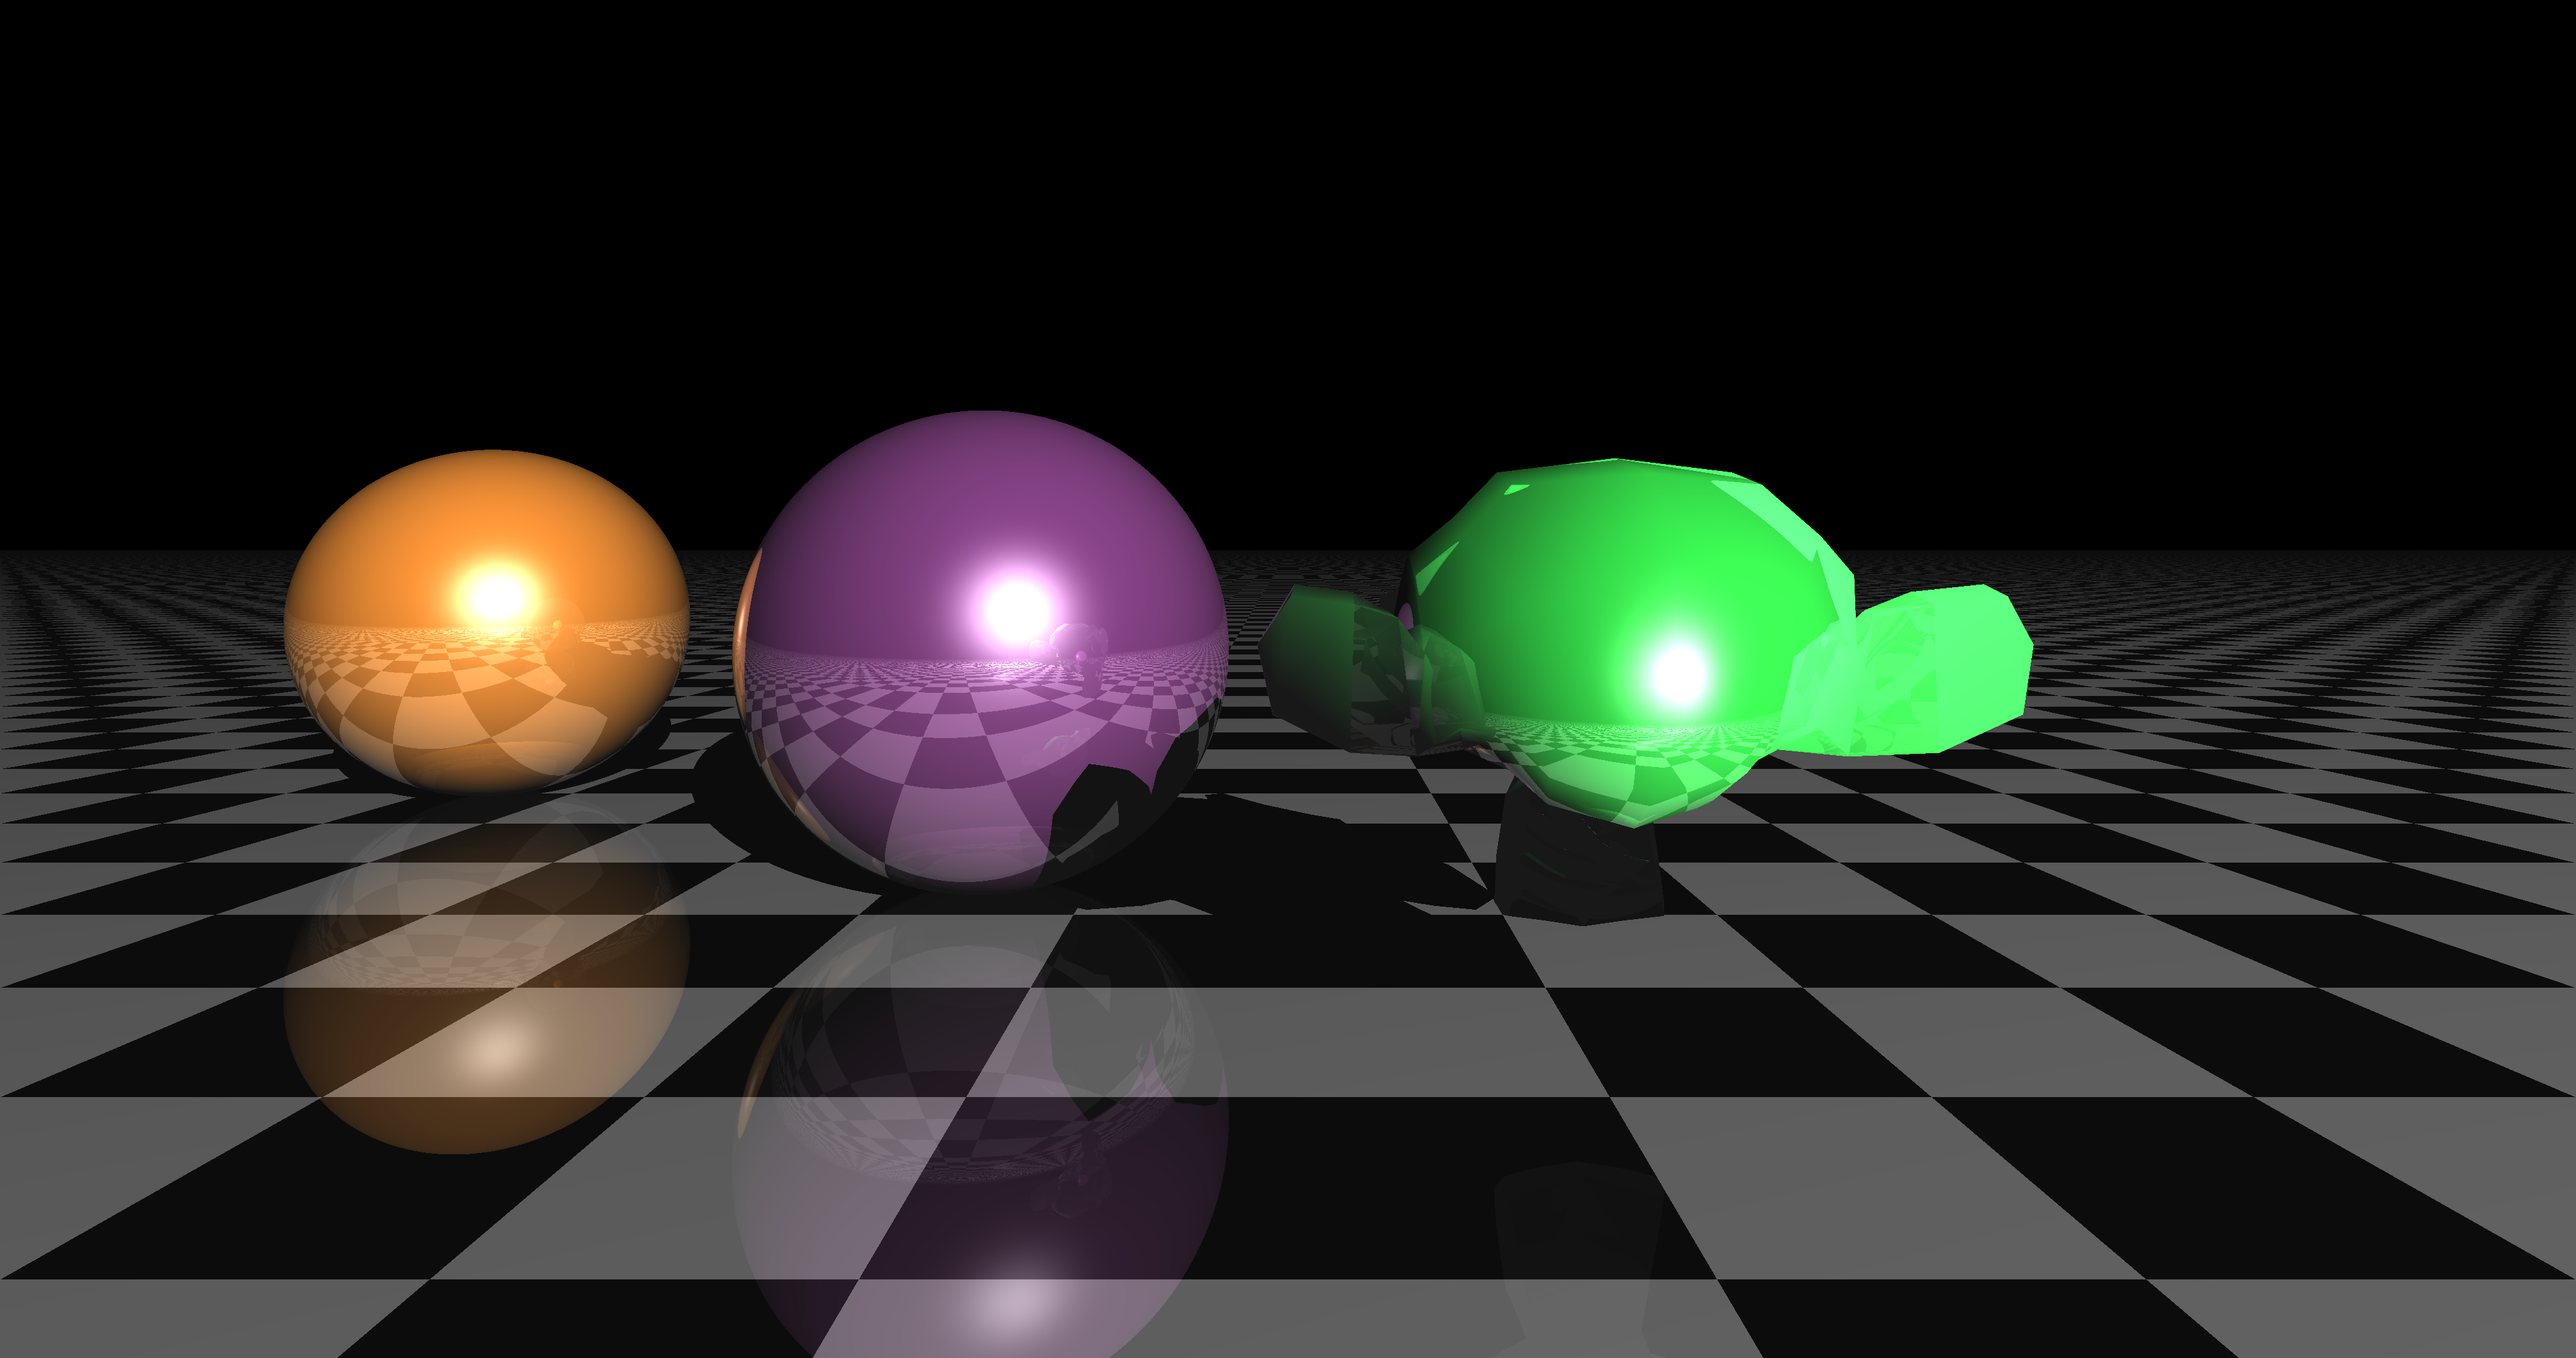
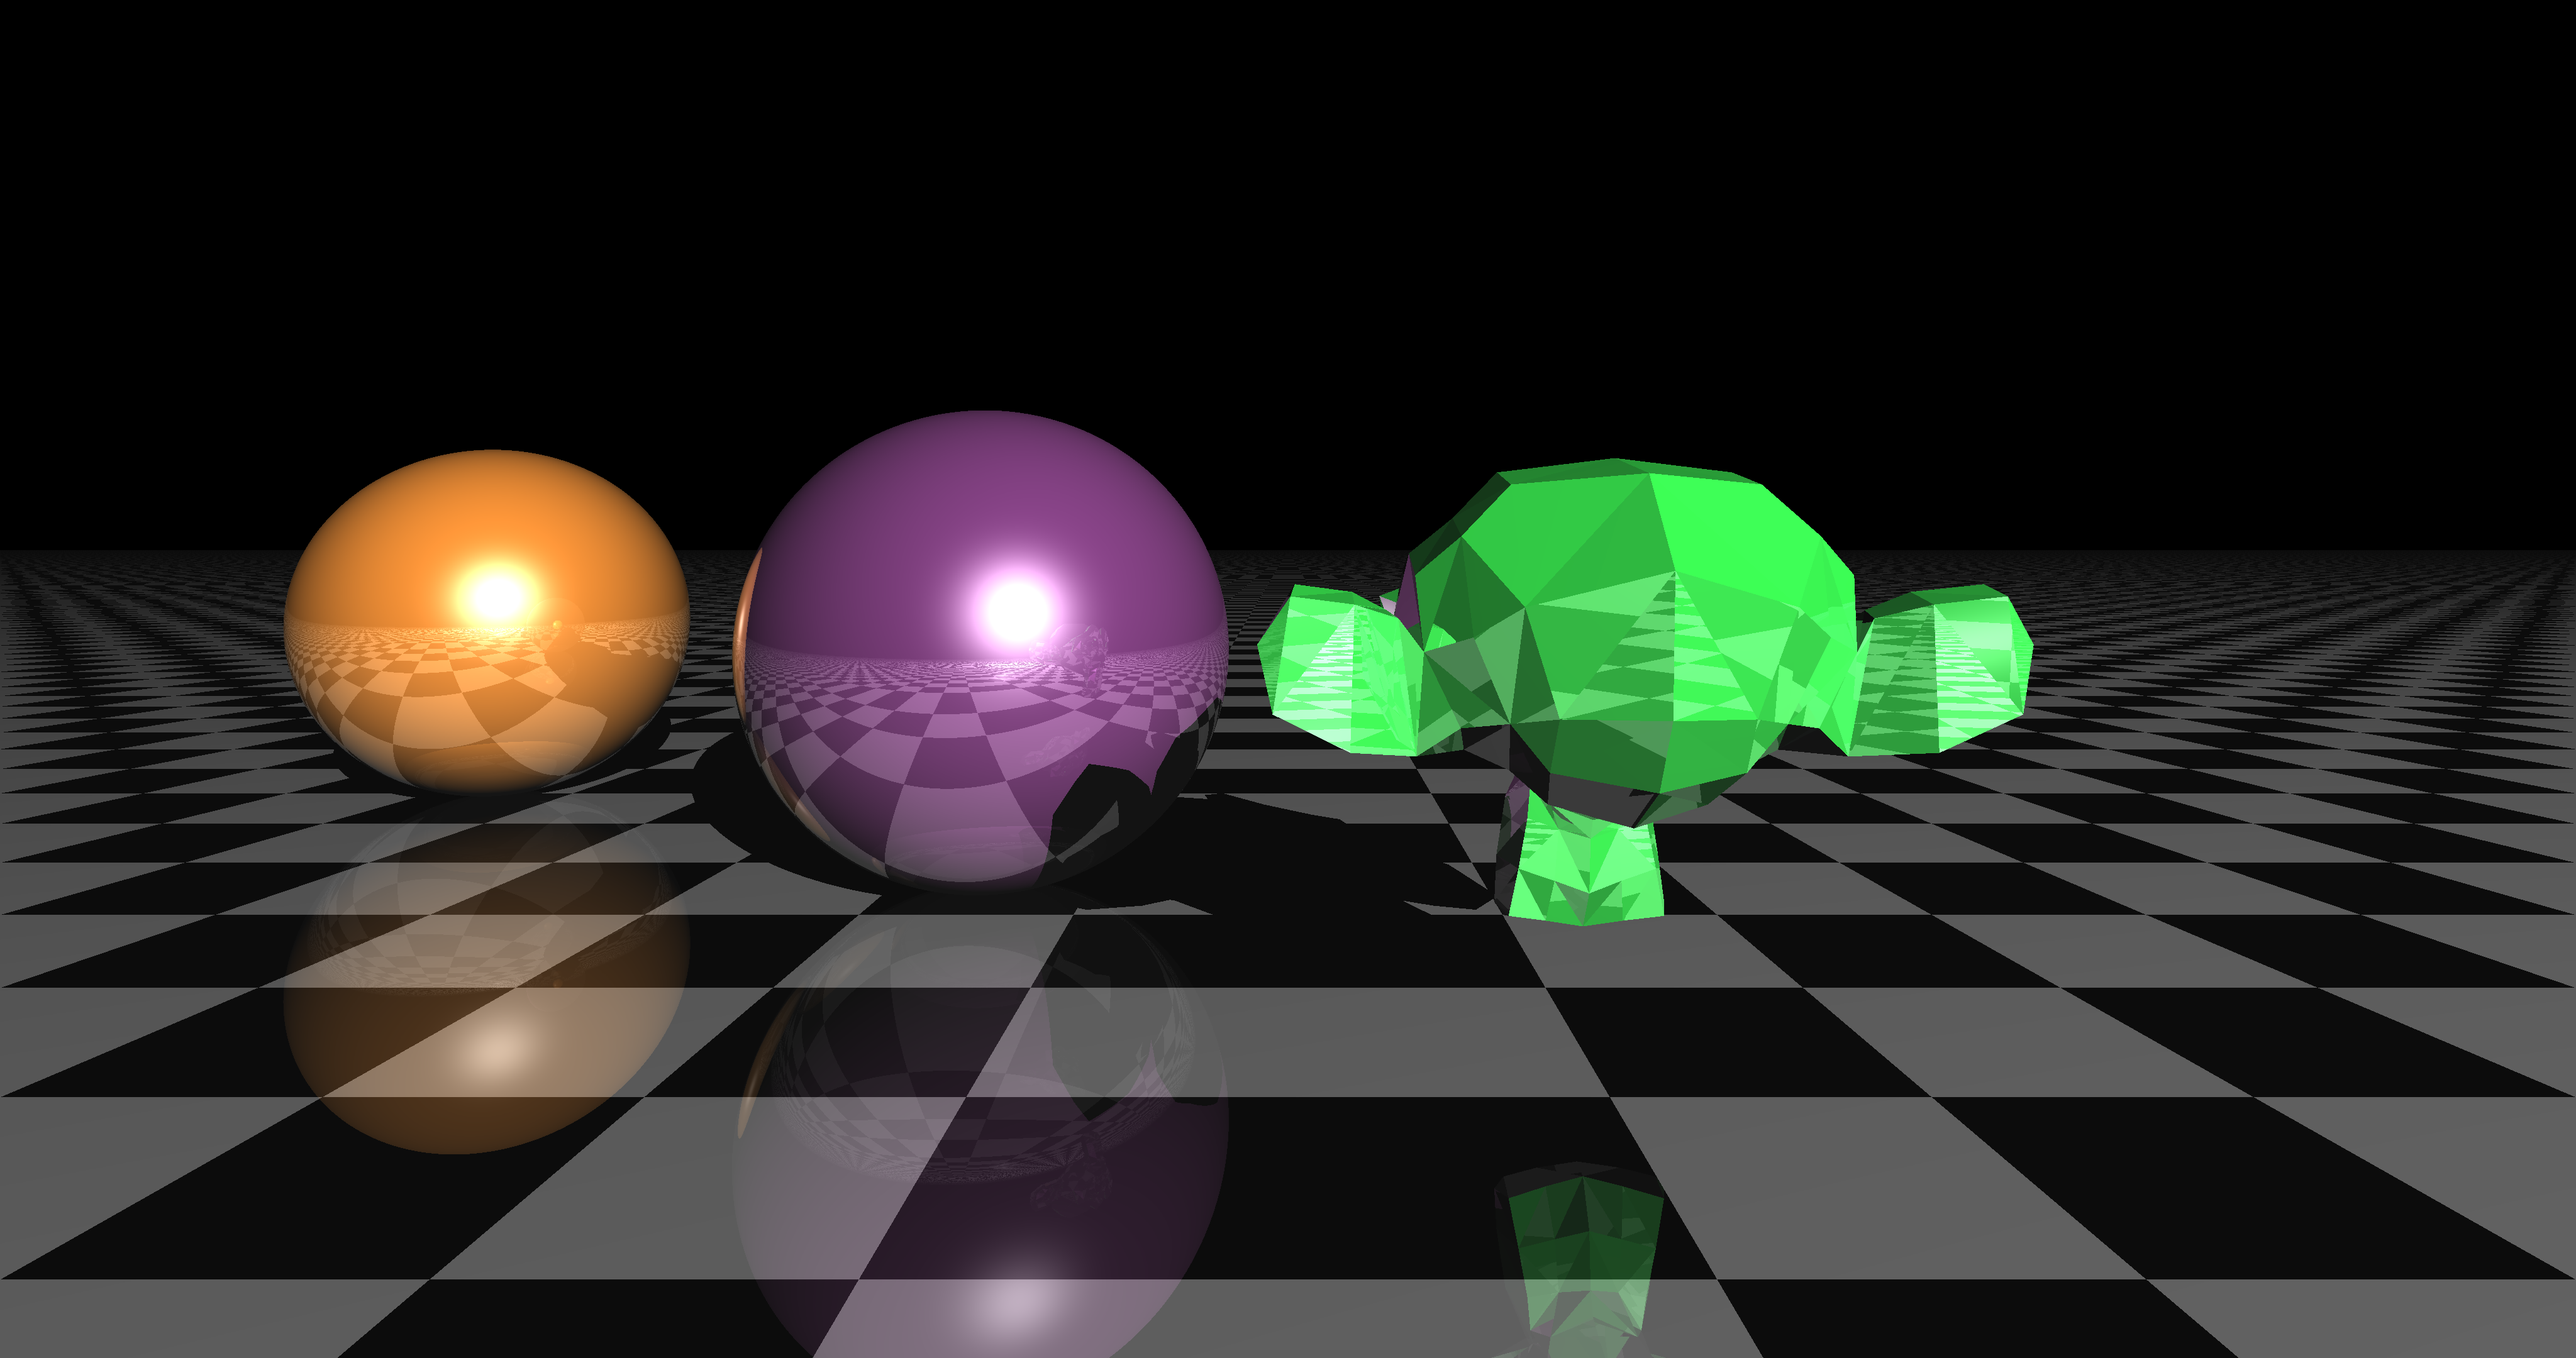
correccion_raytracing_cpu_mesh

Changed region(s): [[0.4688, 0.3412, 0.8125, 0.6824], [0.5625, 0.8685, 0.6562, 1.0]]

diff --git a/examples/raytracing_cpu/raytracing.py b/examples/raytracing_cpu/raytracing.py
@@ -17,11 +17,11 @@ def intersect_plane(O, D, P, N):
     """
     denom = np.dot(D, N)
     if np.abs(denom) < 1e-6:
-        return np.inf
+        return np.inf, None
     d = np.dot(P - O, N) / denom
     if d < 0:
-        return np.inf
-    return d
+        return np.inf, None
+    return d, None
 
 
 def intersect_sphere(O, D, S, R):
@@ -42,8 +42,11 @@ def intersect_sphere(O, D, S, R):
         t1 = c / q
         t0, t1 = min(t0, t1), max(t0, t1)
         if t1 >= 0:
-            return t1 if t0 < 0 else t0
-    return np.inf
+            if t0<0:
+                return t1, None
+            else:
+                return t0, None
+    return np.inf, None
 
 
 #NUEVO: Este metodo define las intersecciónes en una malla
@@ -54,10 +57,11 @@ def intersect_mesh(O,D,mesh):
         ray_origins=origin,ray_directions=direction,multiple_hits=False
     )
     if len(locations) == 0:
-        return np.inf
+        return np.inf, None
     dx,dy,dz = locations[0]-O
     distance = np.sqrt(dx**2+dy**2+dz**2)
-    return distance
+    face_idx = index_tri[0]
+    return distance, face_idx
 
 
 def intersect(O, D, obj):
@@ -70,7 +74,7 @@ def intersect(O, D, obj):
         return intersect_mesh(O, D, obj["mesh"])
 
 
-def get_normal(obj, M):
+def get_normal(obj, M, face_idx = None):
     """
     Calcula la normal de la superficie de obj en el punto M.
     Por ahora solo funciona con esferas y planos.
@@ -81,7 +85,7 @@ def get_normal(obj, M):
         N = obj["normal"]
     #NUEVO: Opción para una malla, es similar a como funcióna con una esfera
     elif obj["type"] == "mesh":
-        N = normalize(M - obj["position"])
+        N = obj["mesh"].face_normals[face_idx]
     return N
 
 
@@ -108,8 +112,8 @@ def trace_ray(
     t = np.inf
     for i, obj in enumerate(scene):
         t_obj = intersect(rayO, rayD, obj)
-        if t_obj < t:
-            t, obj_idx = t_obj, i
+        if t_obj[0] < t:
+            t, obj_idx = t_obj[0], i
 
     # si t es infinito, quiere decir que no tocó a nada
     if t == np.inf:
@@ -119,8 +123,10 @@ def trace_ray(
     obj = scene[obj_idx]
     # calculamos el punto de intersección
     M = rayO + rayD * t
+
+    distance, face_idx = intersect(rayO, rayD, obj)
     # calculamos las propiedades del objeto: normal y color
-    N = get_normal(obj, M)
+    N = get_normal(obj, M, face_idx)
     color = get_color(obj, M)
 
     # evaluamos la iluminación.
@@ -131,7 +137,7 @@ def trace_ray(
     # que sale desde el punto M hacia la luz
     # y verificar que no se intersecta con otros objetos
     l = [
-        intersect(M + N * 0.0001, toL, obj_sh)
+        intersect(M + N * 0.0001, toL, obj_sh)[0]
         for k, obj_sh in enumerate(scene)
         if k != obj_idx
     ]

diff --git a/examples/raytracing_cpu/app.py b/examples/raytracing_cpu/app.py
@@ -14,7 +14,6 @@ if __name__ == "__main__":
     # tamaño de la imagen
     w = 4096
     h = 2160
-
     #NUEVO: Cargamos el modelo 3D
     mesh = tm.load("assets/suzanne.obj", force="mesh")
 
